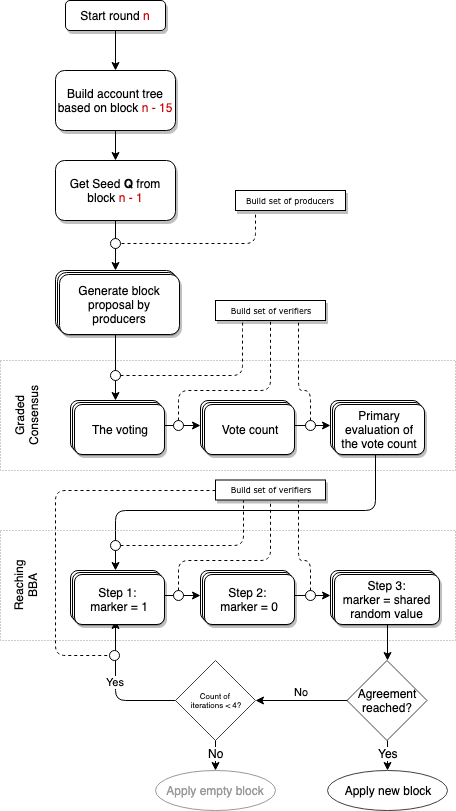
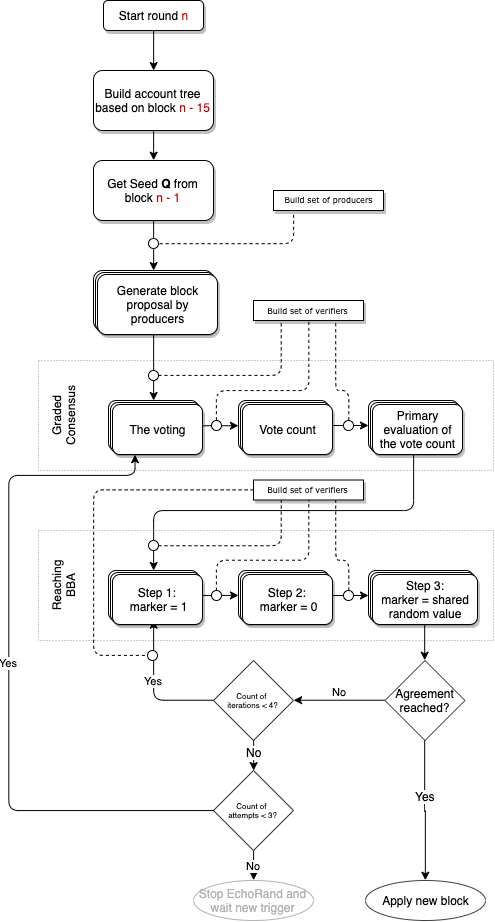
ECHO-1527: update according to changes in ECHO-1432  (#70)

diff --git a/technologies/powr-echorand/overview.md b/technologies/powr-echorand/overview.md
@@ -88,7 +88,7 @@ The set of verifiers begin listening for proposed next blocks and begin the proc
 
 ## The EchoRand Mechanism
 
-![EchoRand Steps](../../.gitbook/assets/echorand-steps%20%281%29.png)
+![EchoRand Steps](../../.gitbook/assets/echorand-steps.png)
 
 ### Other Terms
 
@@ -104,6 +104,7 @@ The set of verifiers begin listening for proposed next blocks and begin the proc
 | $msg$        | a message transmitted by a participating node to its peers during a specific step |
 | $sig(x)$     | the EdDSA signature of $x$ |
 | $H(x)$       | the SHA-256 hash of $x$ |
+| $a$          | the current attempt to build a block |
 | $r$          | the current round of the algorithm, which is equivalent to the number of blocks in the database plus one. $r >= 1$ |
 | $s$          | the current step number of the algorithm in the round. $s >= 1$ |
 | $B_{r}$      | a block created in round $r$, which equals to { $r$, $ID_{producer}$, $Q_{r}$, $H(B_{r})$, $H(B_{r-1})$, $sig(B)$, $PAY_{r}$, $CERT_{Br}$ } |
@@ -114,8 +115,8 @@ The set of verifiers begin listening for proposed next blocks and begin the proc
 | $sig(B_{r})$ | the signature of a block of the $r$ round |
 | $l(r)$       | the round $r$ leader - determines $PAY_{r}$, creates $B_{r}$ and determines $Q_{r}$ |
 | $CERT_{r}$   | a $B_{r}$ block certificate formed out of a set of `bba_signature` messages |
-| $VRF(r, s)$  | the ordered set of participants who act in step $s$ of round $r$ |
-| $VRFN(r, s)$ | the ordered set of indexes of $VRF(r, s)$ participants who are registered on the current node and participate in step $s$ of round $r$ |
+| $VRF(r, a, s)$  | the ordered set of participants who act in attempt $a$ for step $s$ of round $r$ |
+| $VRFN(r, a, s)$ | the ordered set of indexes of $VRF(r, a, s)$ participants who are registered on the current node and participate in in attempt $a$ for step $s$ of round $r$ |
 | $id$         | an account identifier in the blockchain |
 | $A_s$        | an array of account identifiers selected as participants in the step $s$ |
 | $N_s$        | an array of $A_s$ indexes which correspond to the identifiers of users authorized on the current node in the step $s$ |
@@ -130,10 +131,10 @@ The following algorithm parameters are set by constants, or configured at the **
 | -----------: | :----------------------------------------------------- |
 | $Λ$          | "large" interval, the average time required to distribute a 1 MB message across the network |
 | $λ$          | "small" interval, the average time required to distribute a 256-bit message across the network |
-| $N_g$        | the number of block producers in a round, used in the function $VRF(r, 1)$ |
-| $N_c$        | the number of block verifiers in a round, used in the function $VRF(r, s), s > 1$ |
+| $N_g$        | the number of block producers in a round, used in the function $VRF(r, a, 1)$ |
+| $N_c$        | the number of block verifiers in a round, used in the function $VRF(r, a, s), s > 1$ |
 | $t_h$        | the threshold for making a positive decision when verifying, and can be selected by $0.69*N_{c}$ |
-| $μ$          | $4 + 3*k, k > 0$ - maximum number of algorithm steps after which an empty new block is created |
+| $μ$          | $4 + 3*k, k > 0$ - maximum number of algorithm steps after which consensus will be restarted |
 
 ### Cryptographic Primitives
 
@@ -150,47 +151,45 @@ The following algorithm parameters are set by constants, or configured at the **
 
 The concept of a verifiable random function \(VRF\) was introduced by Micali, Rabin, and Vadhan. This is a pseudo-random function that provides publicly verifiable evidence for the correctness of its conclusion. For a given input value $x$, the owner of the secret key $SK$ can calculate the value of the function $y = F_{SK}(x)$ and the proof $P_{SK}(x)$. Using the proof and public key $PK = g^{SK}$, everyone can verify that the value of $y = F_{SK}(x)$ is indeed calculated correctly, but this information cannot be used to discover the secret key.
 
-The use of VRF in EchoRand is as follows: having a pseudo-random value $Q_r$ for each round and the VRF function, each of the network nodes can determine the list of $VRF(r, s)$ executors in $s$ step of $r$ round,and based on it, perform the necessary actions if the authorized account on the node is part of $VRF(r, s)$, and additionally verify whether the participants have the right to act at this step.
+The use of VRF in EchoRand is as follows: having a pseudo-random value $Q_r$ for each round and the VRF function, each of the network nodes can determine the list of $VRF(r, a, s)$ executors in attempt $a$ for $s$ step of $r$ round, and based on it, perform the necessary actions if the authorized account on the node is part of $VRF(r, a, s)$, and additionally verify whether the participants have the right to act at this step.
 
-The function $VRF_{n}(r, s)$ returns a list of participants of a given length of round $r$ and step $s$, which is the same for all the nodes in the network. It should be noted that the function uses a fixed state of the blockchain database to calculate the participants' balances. In the general case, this function can use a state of the round $max({0, r - k})$, where $k = 1$. To calculate the function, a random vector $Q_{r-k}$ from round $r-k$ is required.
+The function $VRF_{n}(r, a, s)$ returns a list of participants of a given length of attempt $a$ for round $r$ and step $s$, which is the same for all the nodes in the network. It should be noted that the function uses a fixed state of the blockchain database to calculate the participants' balances. In the general case, this function can use a state of the round $max({0, r - k})$, where $k = 1$. To calculate the function, a random vector $Q_{r-k}$ from round $r-k$ is required.
 
 **Identification of Active Roles**
 
-The checked random function at each **r** round and **s** step is built iteratively, as follows:
+The checked random function at each attempt **a** for **r** round and **s** step is built iteratively, as follows:
 
-$$VRF_{0}(r, s) = H(Q_{r-1}, r, s)$$
+$$VRF_{0}(r, a, s) = H(Q_{r-1}, r, a, s)$$
 
-$$VRF_{1}(r, s) = H(VRF_{0}(r, s))$$
+$$VRF_{1}(r, a, s) = H(VRF_{0}(r, a, s))$$
 
-$$VRF_{2}(r, s) = H(VRF_{1}(r, s))$$
+$$VRF_{2}(r, a, s) = H(VRF_{1}(r, a, s))$$
 
 $$...$$
 
-$$VRF_{n}(r, s) = H(VRF_{n-1}(r, s))$$
+$$VRF_{n}(r, a, s) = H(VRF_{n-1}(r, a, s))$$
 
 The result of this function is an array of random values:
 
-$$VRF(r, s) = {[ VRF_{0}(r, s), VRF_{1}(r, s), ... ]}$$
+$$VRF(r, a, s) = {[ VRF_{0}(r, a, s), VRF_{1}(r, a, s), ... ]}$$
 
-A specific executor is calculated from the $VRF_i(r, s)$ hash in such a way, that the probability of the choice of the participant as active, is proportional to his balance in the system at the time of the $r - 2$ block.
+A specific executor is calculated from the $VRF_i(r, a, s)$ hash in such a way, that the probability of the choice of the participant as active, is proportional to his balance in the system at the time of the $r - k$ block, where **k** is some positive constant value. The meaning of constant **k** here is to prevent prediction of distribution $$VFR(r + 1, a, s)$$ with reasonably enough probability to attack the block generation scheme.
 
-The set $VRFN (r,s)$ is an array of indexes that is different for each node of the network, and if $i ∈ VRFN (r,s)$, then the user ID that is the executor for the given round and step at the selected node is calculated using function $VRF_i (r,s)$.
+The set $VRFN(r, a, s)$ is an array of indexes that is different for each node of the network, and if $i ∈ VRFN(r,s)$, then the user ID that is the executor for the given round and step at the selected node is calculated using function $VRF_i (r,s)$.
 
-In other words, $VRFN$ is a selection of participants from $VRF$ who act on a particular node, round, and step.
+In other words, $VRFN$ is a selection of participants from $VRF$ who act on a particular node, attempt, round, and step.
 
-At the same round and step but on different network nodes of the algorithm, the $VRFN$ selections will be different, while the $VRF$ selection will be the same.
+At the same attempt, round and step but on different network nodes of the algorithm, the $VRFN$ selections will be different, while the $VRF$ selection will be the same.
 
 **Generation of Randomness Seed**
 
 The starting seed $Q_{0}$ is selected randomly at blockchain database initialization.
 
-Then, at the creation of a new block in round $r$ the $Q_{r}$ vector is calculated. For a non-empty block $B_{r}$:
+Then, at the creation of a new block in round $r$ the $Q_{r}$ vector is calculated.
 
 $$Q_{r} = H(sig(Q_{r-1}), r)$$
 
-In this case, the signature is generated using the EdDSA private key of the producer that created the block. In case $$B_{r}$$ block is empty:
-
-$$Q_{r} = H(Q_{r-1}, r)$$
+In this case, the signature is generated using the EdDSA private key of the producer that created the block.
 
 **Generating a Random Value During BBA Steps**
 
@@ -209,7 +208,7 @@ Where $lsb$ is the least significant bit.
 
 ### Step 1 - Block Generation
 
-For each block, a new list of possible **producers** is determined with the help of a verifiable random function $VRF(r, s)$ as described above. As a result, each network node receives a $VRF(r, s)$ set and a $VRFN(r, s)$ subset - a list of accounts authorized at this node. If $VRFN(r, s)$ is not empty, the node issues a block proposal based on the transactions that are in the node mempool.
+For each block, a new list of possible **producers** is determined with the help of a verifiable random function $VRF(r, a, s)$ as described above. As a result, each network node receives a $VRF(r, a, s)$ set and a $VRFN(r, a, s)$ subset - a list of accounts authorized at this node. If $VRFN(r, a, s)$ is not empty, the node issues a block proposal based on the transactions that are in the node mempool.
 
 Since all input data for the VRF is already included in the previous blocks, each node in the network determines the list of producers independently, and it is the same for everyone \(deterministic\).
 
@@ -256,7 +255,7 @@ Each of the selected verifiers tells the network which of the blocks they consid
 * $H(B_{r-1})$, $Q_{r-1}$ from $CERT_{r-1}$
 * $A_{1}$, $A_{2}$, $N_{2}$ from the context of the round
 
-$v$ is a local structure of a step that stores the hash of the block and the ID of the producer which created the block. The empty set symbol assigned to the elements $v$ means "empty block" and "unknown leader". In the application, it can be a predefined constant or a separate flag in the data structure.
+$v$ is a local structure of a step that stores the hash of the block and the ID of the producer which created the block.
 
 **Start**
 
@@ -398,18 +397,13 @@ In the latter case, undecided nodes again use a VRF to generate a shared random 
 
 The stage consists of rounds, which include 3 steps each. At each step in the cycle, a new set of verifiers chosen by VRF sends their determination of the voting result in binary form. If, as a result of the round, 2/3rds + 1 \(~67%\) of verifiers agree on the outcome, the block is considered valid and appended to the chain. If consensus is not met, a new round begins.
 
-If over 4 rounds \(which involves 4 rounds x 3 verifiers = 12 unique, random sets of verifiers\) the network is unable to come to consensus about which block to add, an empty block is applied by the network and the entire consensus mechanism begins again from the very first step - cryptographic sortition for new block producers.
+If over 4 rounds \(which involves 4 rounds x 3 verifiers = 12 unique, random sets of verifiers\) the network is unable to come to consensus about which block to add, parameter $a$ is increasing and the entire consensus mechanism begins again from the very first step - cryptographic sortition for new block producers.
 
 ### Block application by the network participants
 
-All network nodes receive all messages sent by producers and verifiers at all stages of the consensus. All the network nodes perform the round steps. Messages are sent to the network only by the nodes that have already been selected for participation at a given step using the $VRFN(r,s)$ algorithm.
+All network nodes receive all messages sent by producers and verifiers at all stages of the consensus. All the network nodes perform the round steps. Messages are sent to the network only by the nodes that have already been selected for participation at a given step using the $VRFN(r, a, s)$ algorithm.
 
 Accordingly, each node individually determines when consensus has been reached on the next block and understands which block to apply and add to its own local copy of the distributed ledger. Thus, all the network nodes reach the end of the round at one of the stages of the `BBA` algorithm and get a formed $CERT_{r}$. Therefore, a final message with the resulting information isn’t broadcast by any node, as each node has already determined this information independently.
-
-If the value $ctx[l].B != ∅$, then the block is received. If the value $ctx[l].B == ∅$, then:
-
-* $ctx[l].signQ == Q_{r-1}$ means that an empty block has been created.
-* $ctx[l].signQ != Q_{r-1}$ means that a non-empty block has been created and the node has not received it.
 
 ## Network Communication
 
@@ -507,8 +501,7 @@ To reduce the number of messages with information about the proposed block, the 
 The number of steps of the algorithm and dependence on the state of the whole account database makes the possibility of forks unlikely. However, EchoRand still has a mechanism for choosing between diverging chains. The fork selection takes place according to one of the following scenarios:
 
 1. To switch to the longest chain \(with the highest number of completed non zero rounds\) in the presence of several chains.
-2. If there is more than one long chain, to follow the one, in which the last block is not empty. If all of them have empty blocks in the end, to check the second and subsequent blocks from the end to the first non-empty block.
-3. If there is more than one long chain with non-empty blocks at the end of a `r`-length chain, to follow the one in which the `r` block has the smallest hash value.
+2. If there is more than one long chain at the end of a `r`-length chain, to follow the one in which the `r` block has the smallest hash value.
 
 This process is based on [algorand-v9](https://drive.google.com/file/d/1dohyg2LMNxHFzzTc5VpUwm_qjegBPKe2) \(9. Handling Forks, page 70\).
 
@@ -516,13 +509,15 @@ This process is based on [algorand-v9](https://drive.google.com/file/d/1dohyg2LM
 
 In the case a node is not able to communicate with peers or stops receiving message broadcast, the node's internal state of the current round and step will only advance when the timer is triggered.
 
-Since the conclusion of the current round at the moment occurs only upon receiving a successful BBA message from peers, the node will continue executing the BBA steps in a loop until reaching the `μ` constant. As a result, an empty block will be generated.
+Since the conclusion of the current round at the moment occurs only upon receiving a successful BBA message from peers, the node will continue executing the BBA steps in a loop until reaching the `μ` constant.
+
+Without reaching consensus, the mechanism will start 3 times in a row from fist step, after which echorand will stop and will be started again after receiving a message from the network.
 
 #### Network Restored
 
-Nodes that receive messages only from the middle of a consensus round, as a result of an interrupted network connection, will possess incomplete data about the context and progress of the round. As a consequence, they will reach either an _incorrect_ evaluation for the best block or vote for an _empty block_.
+Nodes that receive messages only from the middle of a consensus round, as a result of an interrupted network connection, will possess incomplete data about the context and progress of the round.
 
-In either case, the node will act as if it was a malicious node, passing incorrect information to the network. Consequently, the information coming from such nodes will be filtered by the `BBA` algorithm. Once the node realizes that its view of the ledger is inconsistent with the rest of network, a reconciliation will occur automatically, when the rest of the network goes forwards in the process of generating new blocks.
+The node will act as if it was a malicious node, passing incorrect information to the network. Consequently, the information coming from such nodes will be filtered by the `BBA` algorithm. Once the node realizes that its view of the ledger is inconsistent with the rest of network, a reconciliation will occur automatically, when the rest of the network goes forwards in the process of generating new blocks.
 
 #### Incomplete Local Block Database
 
@@ -535,26 +530,19 @@ The syncing node must determine the moment when its local database will be in sy
 
 #### Block Producer Influence on VRF
 
-Account balances formed as a result of the `r` round will be used in the VRF only when assigning a set of producers and verifiers for the round `r + 2`. However, the randomness seed for the round `r + 2` will be affected by the outcome of the round `r + 1`.
+Account balances formed as a result of the `r` round will be used in the VRF only when assigning a set of producers and verifiers for the round `r + k`. However, the randomness seed for the round `r + k` will be affected by the outcome of the round `r + k - 1`.
 
-So since the producer cannot predict the seed that will be received as a result of the round `r + 1`, he cannot predict how the choice of performers will be affected by manipulating account balances on the `r` round.
+So since the producer cannot predict the seed that will be received as a result of the round `r + k - 1`, he cannot predict how the choice of performers will be affected by manipulating account balances on the `r` round. The latest is true only if there is a block at interval `[r + 1, r + k - 1]`. Otherwise, randomness seed can be easily calculated from `r` to `r + k`.
 
 #### Insufficient Node Participation
 
 Given that each network node must independently use the VRF to determine their role in each consensus round, the distribution of roles does not depend on the availability or actual participation of each node. The VRF distributes roles based on the entire set of network nodes and registered accounts, not merely the active ones. Because of this, there exists the possibility that for some step of the consensus algorithm, none of the nodes selected for that role are online or available.
 
-In this case, the timeout threshold will be reached for that step of the round, and the active nodes will simply proceed to the next step or append an empty block to the ledger \(in case this occurs at the final step\), triggering the distribution of a new set of roles.
-
-Network simulations suggest that:
-
-* When **70%** of accounts are active, the network generates 4% empty blocks and a 5.5s efficient block generation time
-* When **65%** of accounts are active, the network generates 16% empty blocks and a 14s efficient block generation time
-* When **60%** of accounts are active, the network generates 30% empty blocks and a 32s efficient block generation time
-* When **50%** of accounts are active, the network generates 70%+ empty blocks and a 120s+ efficient block generation time
+To prevent the situation with consensus stopping for this reason, Echo implements the delegation mechanism described below.
 
 #### Delegating Consensus Participation
 
-Given that a high participation rate in the consensus mechanism \(through block production and verification\) is important in order to maintain maximum network throughput and avoid the generation of empty blocks, the protocol provides two levels of delegating this participation.
+Given that a high participation rate in the consensus mechanism \(through block production and verification\) is important in order to maintain maximum network throughput, the protocol provides two levels of delegating this participation.
 
 **Level One - Explicit Delegation**
 
@@ -568,7 +556,7 @@ The protocol provides a second, fallback level of delegators who are authorized 
 
 Through this mechanism, at each step of the consensus for each verifier \(but not block producers\), a fallback delegate is determined from the list of active committee members. As a result, each of the active members of the committee receives its set of accounts delegated to him at a particular step of consensus. The important criteria for these delegates is that the messages from the committee member \(on behalf of account `A`\) is considered when counting votes only if during the full time interval allocated for the current step, the node has not received any messages from the verifier selected for the round `A` or from his explicit delegate `B`.
 
-The committee member corresponding to the $VRF_{n}(r, s)$ account at step `s` round `r` is determined by the following formula:
+The committee member corresponding to the $VRF_{n}(r, a, s)$ account at step `s` round `r` is determined by the following formula:
 
 $$C_{n} = ceil\{n * K / N_{c}\}$$
 
@@ -578,7 +566,7 @@ where $K$ is the number of active committee members.
 
 Because the selection of block producers and verifiers is weighted by the accounts balance, EchoRand transforms the typical Byzantine fault tolerance requirement of 2/3rd of honest nodes to a more Sybil-resistant requirement that **2/3rds of balances** are held by honest nodes. This assumption is also improved because the nodes with the highest balances have the most "skin in the game", and thus the most economic value to lose of the network is attacked. As long as 2/3rds of balances are held by honest nodes participating in consensus, the network will run at maximum performance, with no loss of capacity.
 
-In the case that **less than 2/3rds of balances are held by honest users** participating in consensus, the network will begin to suffer from degraded performance in the form of empty blocks being added to the ledger. As this honest participation rate declines from 67% to 33%, the statistical probability of empty blocks being added to the ledger increases linearly from 0 to 100%.
+In the case that **less than 2/3rds of balances are held by honest users** participating in consensus, the network will begin to suffer from degraded performance in the form of an increase in the number of attempts to build a block.
 
 With more than 67% of tokens held by an attacker, the attacker could continually disrupt the consensus mechanism and prevent new blocks from being added to the ledger or censor transactions, just as an attacking miner with 51% of the total hash rate in a proof of work-based currency.
 
@@ -586,13 +574,12 @@ With more than 67% of tokens held by an attacker, the attacker could continually
 
 EchoRand introduced a formal incentive scheme to reward accounts for participating in the consensus process either by running an active node or delegating to another active node. This incentive scheme is designed to balance the optimal security and performance of EchoRand network by incentivizing more accounts to participate in consensus whenever performance drops below optimal levels while maintaining adequate security and decentralization.
 
-Under this incentive mechanism, the block producers which generate a block which is successfully added to the ledger are reward with some newly generated balance, similar to a block reward in Bitcoin. Additionally, all verifiers who participated in the voting and validation process of a successful block are also rewarded with a smaller balance. In the case that an empty block is added to the network, no nodes receive a block reward.
+Under this incentive mechanism, the block producers which generate a block which is successfully added to the ledger are reward with some newly generated balance, similar to a block reward in Bitcoin. Additionally, all verifiers who participated in the voting and validation process of a successful block are also rewarded with a smaller balance.
 
-When the network begins to generate empty blocks due to a failure of consensus \(whether because of an attacker or through low participation in consensus by honest users\), the protocol increases the block reward through inflation in order to incentivize more rational users to participate in consensus. When the performance returns to the acceptable threshold, the block reward is decreased over time until it returns to the minimum inflation rate. Research is ongoing into the idea rate of change and limits for the inflation rate.
+When the nodes of the committee begin to participate in the generation of the block due to the lack of live participants, the protocol increases the block reward through inflation in order to incentivize more rational users to participate in consensus. When the performance returns to the acceptable threshold, the block reward is decreased over time until it returns to the minimum inflation rate. Research is ongoing into the idea rate of change and limits for the inflation rate.
 
 ## Conclusion
 
 EchoRand is the consensus mechanism used by the Echo protocol to provide fast and final consensus. In EchoRand consensus, every account is automatically able to participate in the block production and validation process, either by running a node or delegating to an existing node. Each new block of transactions is generated by a committee randomly chosen from the set of all network accounts. There is no requirement to lock up or "stake" currency, add computing power, or earn the votes of other users - every network user is eligible. However, the task of securely choosing this committee out of the pool of all users would typically require a large coordination, communication, or computation overhead for the network. In addition, when this committee of block producers is announced by the network, the chosen actors could become the subject of bribe or DDoS attacks.
 
 By randomly selecting validators for each block rather than forcing every node to validate every block, EchoRand minimizes the resource requirements of running a node without compromising speed or security.
-
